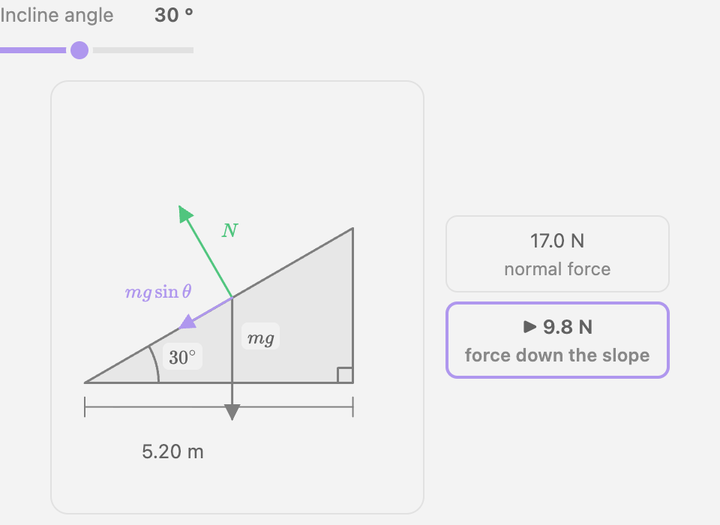
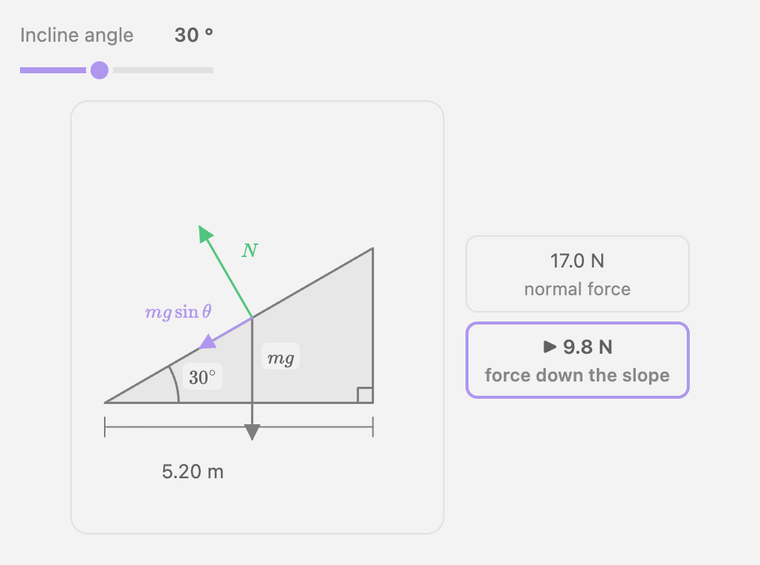
docs: update README

diff --git a/README.md b/README.md
@@ -13,6 +13,8 @@ Clew is a desktop-only Obsidian plugin for studying university-level material. O
 
 Currently runs on the [Claude Code](https://code.claude.com) or [Codex](https://github.com/openai/codex) you already have installed, on your own subscription.
 
+Figures are designed to be lightweight and beautiful, declarative enough to generalise across domains, but simple enough for smaller models like Haiku and Luna to write. However, although the renderer is almost complete, much work is still needed to steer the models to consistently remember to generate correct figures with high pedagogical value.
+
 ## 3D plots
 
 <p align="center">
@@ -31,20 +33,9 @@ Ask about gradient descent and the answer includes a 3D surface. Drag to rotate 
 
 Clew draws these too.
 
-<table>
-  <tr>
-    <td valign="top" width="50%">
-      <img src="assets/figure-graph.png" alt="Dijkstra's algorithm: a graph with settled nodes marked, beside a table of distances, with a step player underneath">
-      <br><br>
-      <img src="assets/figure-quiz.png" alt="A multiple-choice question: what is the derivative of sin x?">
-    </td>
-    <td valign="top" width="50%">
-      <img src="assets/figure-plot.png" alt="A sine curve and its degree-5 Taylor polynomial, with a slider for the number of terms">
-      <br><br>
-      <img src="assets/figure-table.png" alt="The edit-distance table for kitten and sitting, row 4 highlighted, with a step player underneath">
-    </td>
-  </tr>
-</table>
+<p align="center">
+  <img src="assets/figures.png" alt="Six figures: Dijkstra's algorithm on a graph with a table of distances and a step player; a multiple-choice question on the derivative of sin x; a sine curve and its Taylor polynomial with a slider for the number of terms; the edit-distance table for kitten and sitting with a step player; a binary search over a sorted array with lo, mid and hi pointers and a step player; Gaussian elimination on an augmented matrix with the row operation marked and a step player" width="900">
+</p>
 
 - **Plots** in 2D and 3D. Drag a slider and the plot redraws.
 - **Step-by-step walkthroughs** for algorithms, derivations, anything that changes state.
@@ -92,6 +83,10 @@ export default function ({ angle }) {
 The program places the triangle, the angle mark and the arrows from the angle, and works out the forces. Move the slider and Clew runs it again.
 
 </details>
+
+## Why JSX
+
+A figure is a tree, and JSX nests the way the figure does: `<Row>`, `<Plot>` and `<Fn>` sit next to the plain JavaScript that computes what they show. Internal benchmarks showed that allowing the model to write code to compute results for the visuals helped with reducing reasoning tokens and mistakes. When the model worked out its numbers in code, 58 of the 62 programs that ran were also correct on 10 unseen inputs, where a prior renderer with OpenUI's syntax had it work out every value in reasoning. The syntax itself made no measurable difference: with the same helpers, OpenUI and JSX passed within one case per model. The numbers are in [the pull request](https://github.com/vrevolverrr/clew/pull/3).
 
 ## Beside the note
 
@@ -146,3 +141,5 @@ npm test
 ## Credits
 
 Parts of Clew are adapted from [Claudian](https://github.com/YishenTu/claudian) under the MIT License. See `THIRD_PARTY_NOTICES.md`.
+
+Clew's figures started on [OpenUI](https://www.openui.com) and were inspired by OpenAI's [Intelligent UI](https://openai.com/index/gpt-6-for-everyone/).
